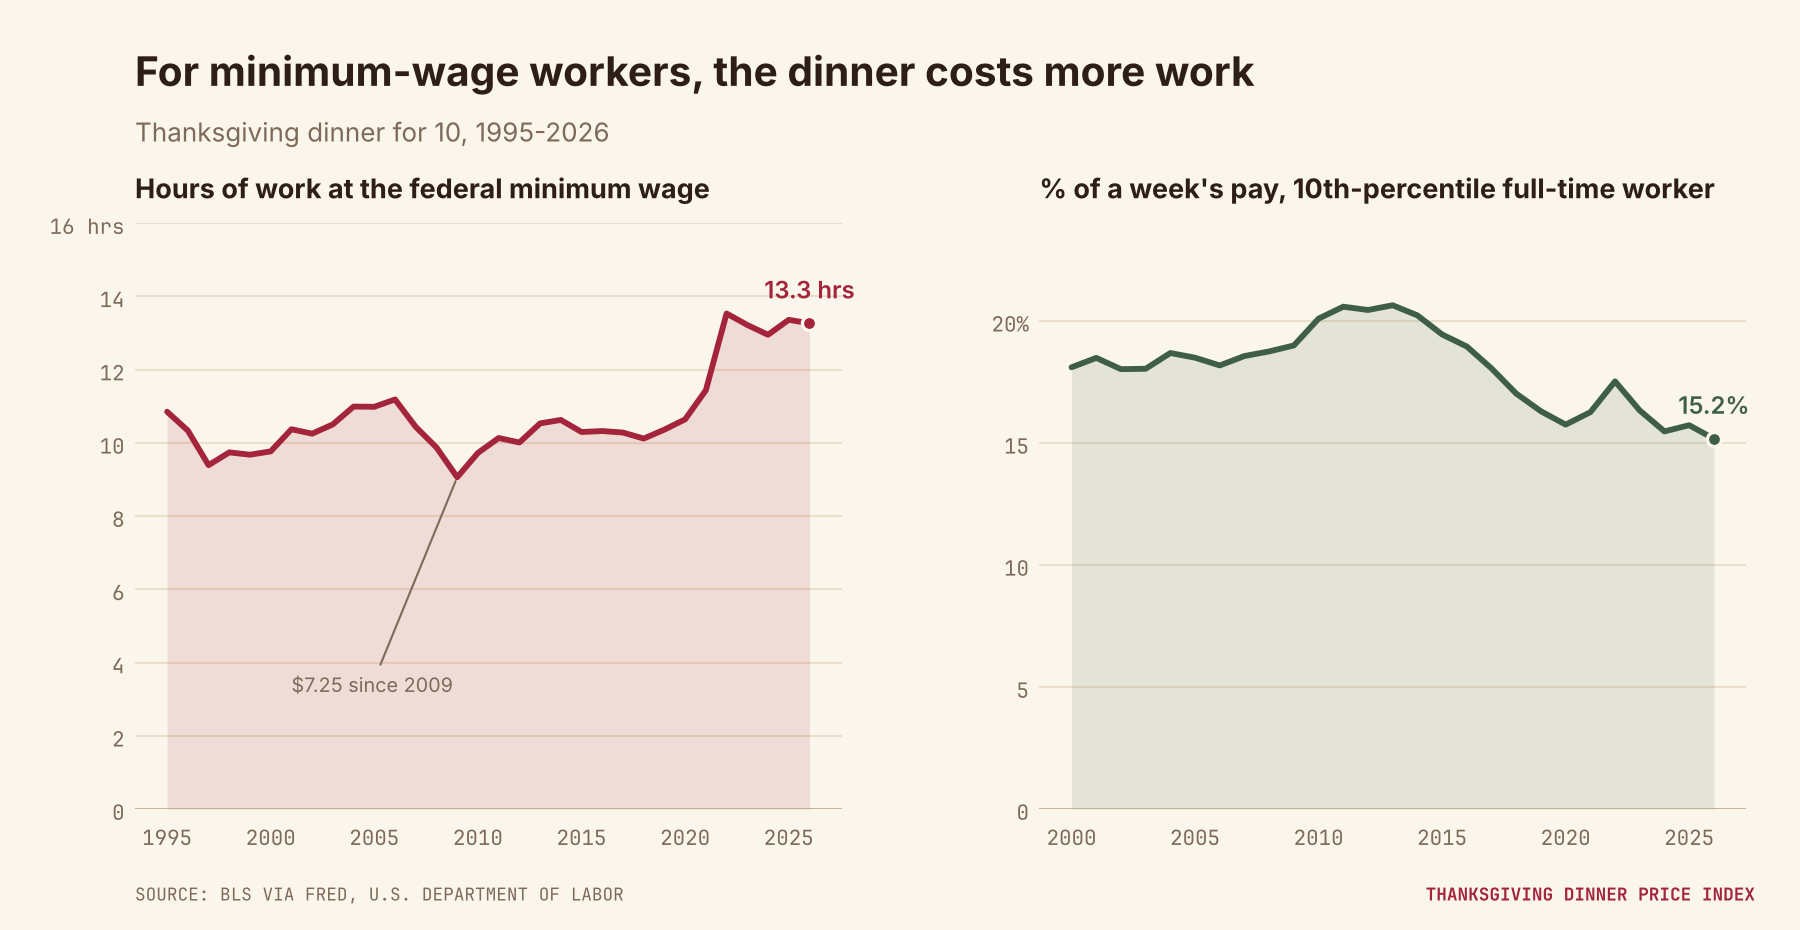
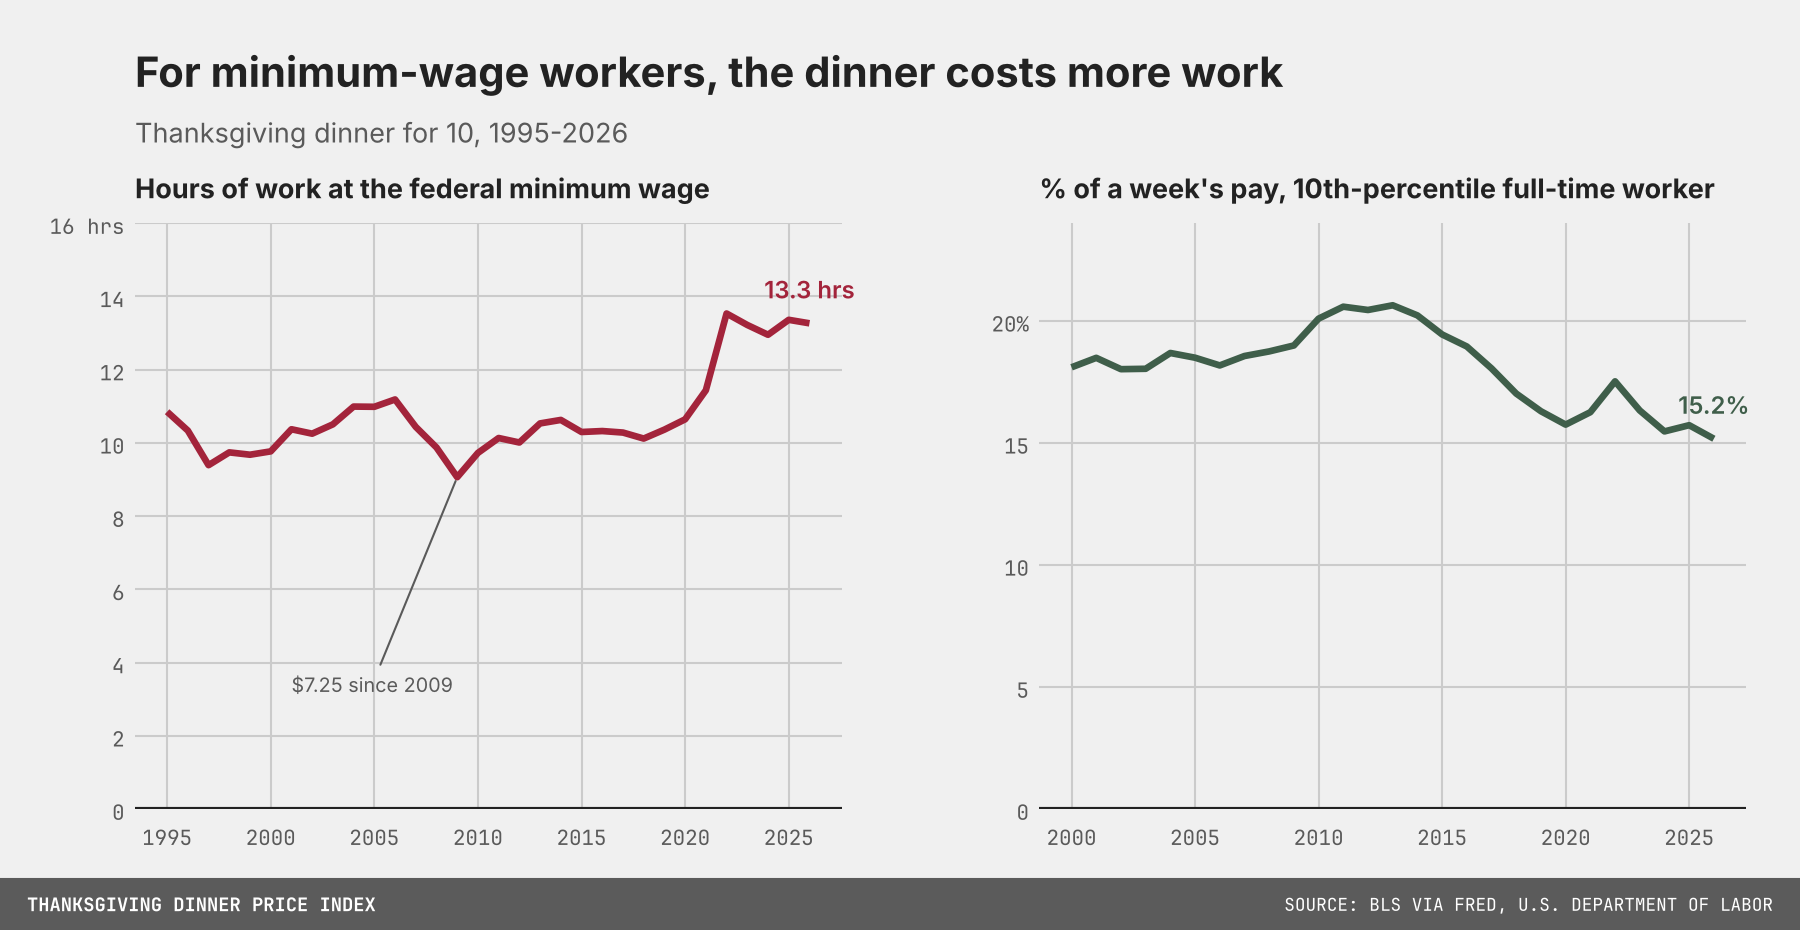
Switch charts to a FiveThirtyEight-style layout, keeping the autumn palette
Gray canvas, full grid, heavy baseline, thicker lines, no area washes or
end dots, and a dark footer bar with the project mark and source. Long
headlines and subtitles shrink to fit; chart 4 areas are opaque.

Claude-Session: https://claude.ai/code/session_015UrztArHpAPPRd1ooHHwA1

diff --git a/chart_style.py b/chart_style.py
@@ -1,7 +1,7 @@
-"""Shared Thanksgiving chart theme: warm cream canvas and an autumn harvest palette, with
-FiveThirtyEight-style type: a bold grotesk headline and labels (Inter) and monospaced tick
-labels and source line (JetBrains Mono). Dots mark line ends; a small project mark sits in
-the footer.
+"""Shared chart theme: FiveThirtyEight-style layout (gray canvas, full grid, heavy
+baseline, thick lines, dark source bar) with an autumn Thanksgiving palette. Type follows
+FiveThirtyEight too: a bold grotesk for headlines and labels (Inter) and monospaced tick
+labels and source line (JetBrains Mono).
 
 The fonts ship in fonts/ (Inter: SIL Open Font License; JetBrains Mono: Apache 2.0) so the
 charts look the same anywhere."""
@@ -10,6 +10,7 @@ from pathlib import Path
 
 import matplotlib.pyplot as plt
 from matplotlib import font_manager
+from matplotlib.patches import Rectangle
 from matplotlib.ticker import FuncFormatter
 
 FONT_DIR = Path(__file__).parent / "fonts"
@@ -26,11 +27,12 @@ SANS = _font(["Inter", "Helvetica Neue", "Helvetica", "Arial", "Liberation Sans"
 MONO = _font(["JetBrains Mono", "DejaVu Sans Mono", "Liberation Mono"], "monospace")
 
 # Canvas and text
-BG = "#FBF6EC"          # cream
-TEXT = "#2E1F16"        # espresso
-MUTED = "#7D6A5A"       # warm brown-gray
-GRID = "#EADFCB"
-SHADE = "#F2E7D3"
+BG = "#F0F0F0"          # FiveThirtyEight gray canvas
+TEXT = "#222222"
+MUTED = "#5A5A5A"
+GRID = "#CBCBCB"
+SHADE = "#E2E2E2"
+FOOTER = "#5B5B5B"      # dark source bar
 
 # Harvest palette (names kept from the earlier theme so chart code stays readable)
 RED = "#A3243B"         # cranberry
@@ -49,14 +51,14 @@ def apply():
     plt.rcParams.update({
         "figure.facecolor": BG, "axes.facecolor": BG, "savefig.facecolor": BG,
         "figure.dpi": 150, "font.family": SANS, "font.size": 11.5, "text.color": TEXT,
-        "axes.edgecolor": BG, "axes.linewidth": 0, "axes.grid": True, "axes.grid.axis": "y",
+        "axes.edgecolor": BG, "axes.linewidth": 0, "axes.grid": True, "axes.grid.axis": "both",
         "axes.axisbelow": True, "grid.color": GRID, "grid.linewidth": 1.0,
         "axes.spines.top": False, "axes.spines.right": False,
         "axes.spines.left": False, "axes.spines.bottom": False,
         "xtick.color": MUTED, "ytick.color": MUTED, "xtick.labelsize": 10.5, "ytick.labelsize": 10.5,
         "xtick.major.size": 0, "ytick.major.size": 0, "xtick.major.pad": 7, "ytick.major.pad": 5,
-        "axes.prop_cycle": plt.cycler(color=PALETTE), "lines.linewidth": 2.8,
-        "lines.solid_capstyle": "round", "lines.solid_joinstyle": "round",
+        "axes.prop_cycle": plt.cycler(color=PALETTE), "lines.linewidth": 3.2,
+        "lines.solid_capstyle": "butt", "lines.solid_joinstyle": "round",
         "legend.frameon": False, "legend.fontsize": 10.5,
         "axes.titlesize": 13, "axes.titleweight": "bold", "axes.titlelocation": "left",
         "axes.titlepad": 12, "axes.titlecolor": TEXT,
@@ -87,17 +89,17 @@ def unit_on_top(ax, fmt=lambda v: f"{v:g}", prefix="", suffix=""):
 
 
 def baseline(ax, y=0):
-    ax.axhline(y, color="#B9A68E", lw=1.2, zorder=2)
+    ax.axhline(y, color=TEXT, lw=2, zorder=2)
 
 
 def soft_fill(ax, x, y, color, floor=None, alpha=0.10):
-    """A soft wash under a line, for the main series."""
-    lo = ax.get_ylim()[0] if floor is None else floor
-    ax.fill_between(x, y, lo, color=color, alpha=alpha, lw=0, zorder=1)
+    """No-op in the FiveThirtyEight style (kept so chart code needs no changes)."""
+    return None
 
 
 def end_dot(ax, x, y, color, size=46):
-    ax.scatter([x], [y], s=size, color=color, edgecolor=BG, linewidth=1.6, zorder=6, clip_on=False)
+    """No-op in the FiveThirtyEight style (kept so chart code needs no changes)."""
+    return None
 
 
 def label_end(ax, x, y, text, color, dy=0, dx=0.4, size=10.5, weight="semibold", dot=True):
@@ -118,35 +120,44 @@ def mono_ticks(fig):
 
 
 def finish(fig, title, subtitle, source, path, note=None):
-    fig.text(0.075, 0.95, title, fontsize=19.5, fontweight="bold", ha="left", va="top", color=TEXT)
-    fig.text(0.075, 0.875, subtitle, fontsize=12.5, ha="left", va="top", color=MUTED)
-    src = fig.text(0.075, 0.026, f"SOURCE: {source}".upper(), fontsize=8.5, color=MUTED, ha="left",
-                   va="bottom", fontfamily=MONO)
-    mark = fig.text(0.975, 0.026, "THANKSGIVING DINNER PRICE INDEX", fontsize=8.5, color=RED,
-                    fontweight="bold", ha="right", va="bottom", fontfamily=MONO)
+    ttl = fig.text(0.075, 0.95, title, fontsize=20, fontweight="bold", ha="left", va="top", color=TEXT)
+    sub = fig.text(0.075, 0.875, subtitle, fontsize=13, ha="left", va="top", color=MUTED)
     fig.canvas.draw()
     r = fig.canvas.get_renderer()
-    fig_h = fig.bbox.height
-
-    def fit(txt, right_px):
-        """Wrap a text object so it ends before right_px."""
-        ext = txt.get_window_extent(r)
-        room = right_px - ext.x0
-        if ext.width > room:
-            chars = max(20, int(len(txt.get_text()) * room / ext.width))
-            txt.set_text(textwrap.fill(txt.get_text(), chars))
-            fig.canvas.draw()
-
-    # Source line: wrap if it would run into the project mark
-    fit(src, mark.get_window_extent(r).x0 - 20)
-    top = src.get_window_extent(r).y1 / fig_h
-    # Optional note: stacked above the source, wrapped to the full width
-    if note:
-        note_txt = fig.text(0.075, top + 0.012, note, fontsize=9.5, color=MUTED, ha="left", va="bottom",
-                            style="italic")
+    W, H = fig.bbox.width, fig.bbox.height
+    # Shrink a headline or subtitle that would run past the right edge
+    for txt, size, limit in ((ttl, 20, 0.88), (sub, 13, 0.9)):
+        w = txt.get_window_extent(r).width
+        if w > limit * W:
+            txt.set_fontsize(size * limit * W / w)
+    mark = fig.text(0.015, 0, "THANKSGIVING DINNER PRICE INDEX", fontsize=9, color="white",
+                    fontweight="bold", ha="left", va="center", fontfamily=MONO, zorder=11)
+    src = fig.text(0.985, 0, f"SOURCE: {source}".upper(), fontsize=8.5, color="white",
+                   ha="right", va="center", fontfamily=MONO, zorder=11, multialignment="right")
+    fig.canvas.draw()
+    # Wrap the source if it would run into the project mark
+    room = 0.985 * W - mark.get_window_extent(r).x1 - 30
+    ext = src.get_window_extent(r)
+    if ext.width > room:
+        chars = max(20, int(len(src.get_text()) * room / ext.width))
+        src.set_text(textwrap.fill(src.get_text(), chars))
         fig.canvas.draw()
-        fit(note_txt, 0.975 * fig.bbox.width)
-        top = note_txt.get_window_extent(r).y1 / fig_h
+    # Dark footer bar sized to the source text
+    bar_h = max(0.055, src.get_window_extent(r).height / H + 0.025)
+    fig.patches.append(Rectangle((0, 0), 1, bar_h, transform=fig.transFigure, color=FOOTER,
+                                 figure=fig, zorder=10))
+    mark.set_y(bar_h / 2); src.set_y(bar_h / 2)
+    top = bar_h
+    if note:
+        note_txt = fig.text(0.075, bar_h + 0.014, note, fontsize=9.5, color=MUTED, ha="left",
+                            va="bottom", style="italic")
+        fig.canvas.draw()
+        ext = note_txt.get_window_extent(r)
+        if ext.width > 0.91 * W:
+            chars = max(20, int(len(note) * 0.91 * W / ext.width))
+            note_txt.set_text(textwrap.fill(note, chars))
+            fig.canvas.draw()
+        top = note_txt.get_window_extent(r).y1 / H
     # Leave room above the footer for the x-axis tick labels
     fig.subplots_adjust(bottom=max(fig.subplotpars.bottom, top + 0.075))
     mono_ticks(fig)

diff --git a/by_income.py b/by_income.py
@@ -153,7 +153,7 @@ for half, d in halves.items():
 
 fig, axes = cs.figure(1, 2, width=12, height=6.4, sharey=True)
 for ax, (half, d) in zip(axes, halves.items()):
-    ax.stackplot(d.index, *[d[c] for c in CATS], colors=[c for _, c in CATS.values()], alpha=0.9, lw=0)
+    ax.stackplot(d.index, *[d[c] for c in CATS], colors=[c for _, c in CATS.values()], alpha=1, lw=0, zorder=2)
     total = d.sum(axis=1)
     ax.plot(total.index, total, color=cs.TEXT, lw=1.2)
     ax.set_title(f"{half} of households by income")

diff --git a/README.md b/README.md
@@ -35,11 +35,11 @@ backtested time-series and machine-learning models.
 
 `run_all.py` runs the scripts in order (turkey model, then the index, then the analyses)
 and saves each console report to `output/`. A full run takes under a minute and gives
-identical results each time. Charts use a Thanksgiving theme from `chart_style.py`: an
-autumn palette on a cream background, with FiveThirtyEight-style type (Inter for headlines
-and labels, JetBrains Mono for tick labels and sources). The fonts are bundled in `fonts/`
-(Inter under the SIL Open Font License, JetBrains Mono under Apache 2.0), so charts look
-the same on any machine.
+identical results each time. Charts share a FiveThirtyEight-style theme from
+`chart_style.py` (gray canvas, full grid, heavy baseline, dark source bar, Inter headlines
+and JetBrains Mono tick labels) with an autumn Thanksgiving palette. The fonts are bundled
+in `fonts/` (Inter under the SIL Open Font License, JetBrains Mono under Apache 2.0), so
+charts look the same on any machine.
 
 | Script | What it does | Main outputs |
 |---|---|---|
